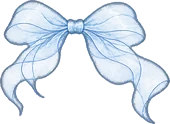
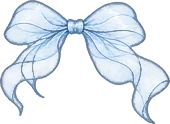
オーガンジーリボン：輪の内がわや重なりの線画も、ふちと同じ濃さに
Claude-Session: https://claude.ai/code/session_01LsuWBkhUDp3d2Zrt24Lv8i

diff --git a/js/app.js b/js/app.js
@@ -23,7 +23,7 @@ const KCAL_PER_FAT_G = 7.2;  // 体脂肪1gあたりのカロリー
 // 保存名はすべて「n-app-」で始める（同じサイト上のほかのアプリとまざらないように）
 const STORAGE_KEY = "n-app-data";
 const LEGACY_STORAGE_KEY = "n-undou-bin.v1"; // 前の保存名（自動で引っ越す）
-const APP_VERSION = "11/30-58"; // 更新するたびに変える（設定画面に表示）
+const APP_VERSION = "11/30-59"; // 更新するたびに変える（設定画面に表示）
 
 // ---------- データの読み書き ----------
 

diff --git a/sw.js b/sw.js
@@ -9,8 +9,8 @@
 // ★ プログラムを直したら CODE_VERSION を、今ある画像を描き直したら IMAGE_VERSION を、必ず1つ上げる。
 //   （新しい画像を足しただけなら IMAGE_VERSION はそのまま。足した分だけダウンロードされる）
 importScripts("js/bottles.js", "js/bigbottles.js", "js/series.js");
-const CODE_VERSION = 161;
-const IMAGE_VERSION = 11;
+const CODE_VERSION = 162;
+const IMAGE_VERSION = 12;
 const CODE_CACHE = `n-app-cache-v${CODE_VERSION}`;
 const IMAGE_CACHE = `n-app-images-v${IMAGE_VERSION}`;
 
